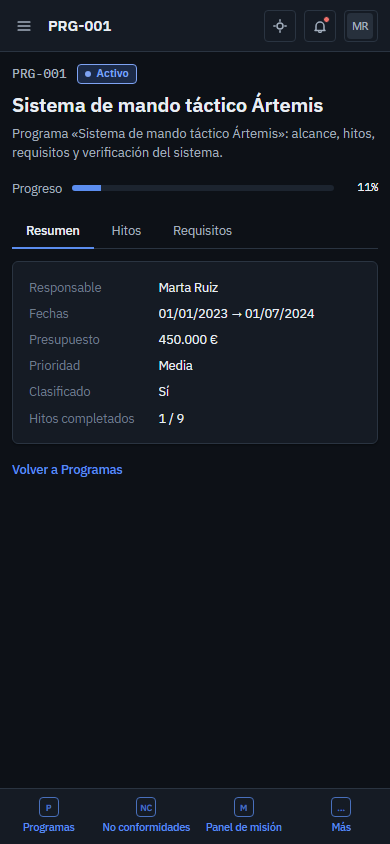
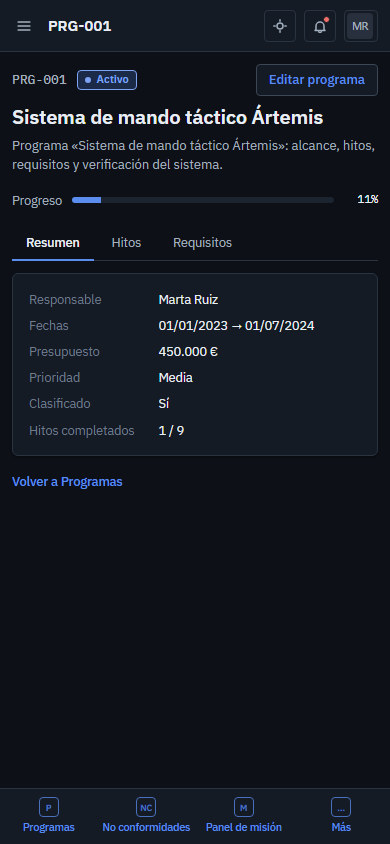
docs(status): close phase 2
STATUS summary and completed locator coverage, README module table and second
e2e stack, Render runbook section for the phase 2 upgrade, changelog, and
refreshed program detail screenshots.

Claude-Session: https://claude.ai/code/session_014pniVbJs2wuLvcRwVyarcA

Changed region(s): [[0.0308, 0.0616, 0.9538, 0.5853], [0.6154, 0.3697, 0.8308, 0.4005], [0.9231, 0.2156, 0.9846, 0.2464]]

diff --git a/docs/STATUS.md b/docs/STATUS.md
@@ -1,6 +1,6 @@
 # SIGPRO — Estado de la construcción
 
-Última actualización: 2026-11-06 · **Fase 1 (Base) cerrada** · **Fase 2 (Núcleo del dominio) en curso**
+Última actualización: 2026-11-06 · **Fase 1 (Base) cerrada** · **Fase 2 (Núcleo del dominio) cerrada** · La fase 3 no se ha empezado
 
 Leyenda: `[x]` hecho · `[~]` en curso · `[ ]` pendiente
 
@@ -14,11 +14,19 @@ Cada tarea termina con `pnpm lint && pnpm typecheck && pnpm test` en verde y un 
 - [x] **T18** Módulo **Verificación**: casos de prueba, ejecución (radio), evidencias (simple, múltiple, arrastrar), informe PDF
 - [x] **T19** Módulo **Documentos**: clasificación por rol, visor en `<iframe>`, nueva pestaña, comparación de versiones
 - [x] **T20** Módulo **Auditoría** (AuditLog): feed con scroll infinito y filtros
-- [ ] **T21** Cierre de fase 2: README, CHANGELOG, STATUS final, pasada completa (lint, typecheck, unit, e2e, capturas)
+- [x] **T21** Cierre de fase 2: README, CHANGELOG, STATUS final, pasada completa (lint, typecheck, unit, e2e, capturas)
 
-## Cobertura de locators — fase 2 (se completa módulo a módulo)
+## Resumen de la fase 2
 
-Recorrida contra la tabla del plan. Estado: **✓** cubierta · **T18 / T19 / T20** llega con ese módulo · **fase 3** fuera de alcance. Specs en `e2e/tests/`: `req` = requirements.spec.ts, `req-api` = requirements-api.spec.ts, `ver` = verification.spec.ts, `ver-api` = verification-api.spec.ts, `doc` = documents.spec.ts, `doc-api` = documents-api.spec.ts, `aud` = audit.spec.ts, `aud-api` = audit-api.spec.ts, `edit` = programs-edit.spec.ts, `legal` = legal.spec.ts, `docs-auth` = api-docs.spec.ts.
+- **Datos y API:** migración `phase2` (etiquetas y posición de requisitos, `Evidence`, `DocumentVersion`), seed v2 (árbol de requisitos de 3 niveles, matriz por programa, 13 capturas PNG reales, 1–3 versiones por documento, 130 eventos de auditoría) con **re-siembra al arrancar** de los tenants antiguos; `PATCH /programs/:code`; Requisitos (estados con permisos, mover, enlaces, cascada), Verificación (lista, ejecución multipart con validación por firma real, evidencias, informe PDF), Documentos (403 en restringidos, contenido paginado, diff por líneas, publicar versión, PDF) y Auditoría (cursor). Cada mutación escribe su evento.
+- **Web:** Requisitos, Verificación, Documentos y Auditoría; edición de programa; páginas públicas `/legal/terms`, `/legal/privacy` y `/help`; visor HTML en `<iframe>`; componentes nuevos reutilizables (`ActionMenu`, `ConfirmDialog`, `RichTextEditor`, `TagPicker`, `ToneBadge`).
+- **Calidad:** `pnpm lint` en verde en los 5 paquetes; `tsc --noEmit` limpio en los 4; **221 tests unitarios** (92 shared, 89 api, 40 web) y **161 specs e2e de humo** en `chromium` (70 de la fase 1 + 91 de la fase 2: Requisitos 13 + 9 de API, Verificación 12 + 8, Documentos 9 + 7, Auditoría 7 + 7, edición de programa 8, legales 5 y basic auth 6). También pasan 46 de ellos contra el build de producción servido con `vite preview`, y `pnpm --filter web build` compila. 250 capturas claro/oscuro a 1440 y 390 px en `docs/screens/` (162 nuevas).
+- **Testabilidad:** auditoría automática sobre el AST de `apps/web/src`: 0 elementos interactivos sin `data-testid` y 0 `<img>` sin `alt`.
+- **Tenants de los specs:** `alumno08` (edición de programa), `09`–`11` (Requisitos), `12`–`17` (Verificación), `18`–`21` (Documentos), `22`–`23` y `25` (Auditoría) y `13`–`14` (capturas de edición/legal y de Requisitos). Detalle en `docs/DECISIONS.md`.
+
+## Cobertura de locators — fase 2 (cerrada)
+
+Recorrida contra la tabla del plan. Estado: **✓** cubierta · **fase 3** fuera de alcance. Specs en `e2e/tests/`: `req` = requirements.spec.ts, `req-api` = requirements-api.spec.ts, `ver` = verification.spec.ts, `ver-api` = verification-api.spec.ts, `doc` = documents.spec.ts, `doc-api` = documents-api.spec.ts, `aud` = audit.spec.ts, `aud-api` = audit-api.spec.ts, `edit` = programs-edit.spec.ts, `legal` = legal.spec.ts, `docs-auth` = api-docs.spec.ts.
 
 | Locator del plan | Elemento nuevo en la fase 2 | Spec | Estado |
 | --- | --- | --- | --- |
@@ -101,15 +109,18 @@ Recorrida fila a fila para Acceso y Programas. Specs en `e2e/tests/`: `access` =
 | `and()` / `or()` | Botón exportar + testid; `toast-info` o alerta tras exportar; toast ok o error 422 | programs, crud |
 | Lista con `toHaveText([...])` | Columna Código tras ordenar (`programs-link-*`) | programs |
 | `dialog` nativo vs custom | Borrado = `alertdialog` propio; reset del tenant = `confirm()` nativo (`page.on('dialog')`) | crud, lab |
-| `frameLocator`, Shadow DOM, nueva pestaña, kanban sin asignado | Visor de documentos, `<sigpro-severity-picker>`, enlace `target=_blank`, NC | **fase 2/3** |
+| `frameLocator`, nueva pestaña | Visor de documentos y enlace `target=_blank` | **fase 2 ✓** (ver la tabla «fase 2» más arriba) |
+| Shadow DOM, kanban sin asignado | `<sigpro-severity-picker>` y tarjetas de NC | **fase 3** |
 
 ## Pendiente / deuda conocida
 
 - **Render:** desplegado (web <https://sigpro-web.onrender.com/>, API <https://sigpro-api.onrender.com/>); CI en verde. Al desplegar la fase 2, la API re-siembra al arrancar los tenants con `seed_version` antigua (ver `docs/DECISIONS.md`).
 - **CI en GitHub:** la primera ejecución de `ci.yml` (2026-11-06, repositorio `gsanchezm/sigpro`) terminó en verde: lint, typecheck, unit y e2e de humo.
-- **Node 22 en CI/Render** en vez de Node 20: `pnpm@11` exige ≥ 22.13 (ver `docs/DECISIONS.md`).
+- **Node 22** (resuelto): CI, Render y `CLAUDE.md` usan Node 22 y pnpm 11 (`pnpm@11` exige ≥ 22.13; ver `docs/DECISIONS.md`).
 - **Deshacer eliminación** (`toast-action`): no se implementa (borrado permanente).
-- **Detalle de programa:** solo la pestaña Resumen; Hitos y Requisitos son marcadores.
+- **Detalle de programa:** Resumen y Requisitos (enlace al módulo) están hechos; la pestaña **Hitos** sigue siendo un marcador. La tabla de hitos con edición inline y el slider de avance del catálogo del plan no entraban en la fase 2.
+- **Windows + Prisma:** `pnpm typecheck` y `pnpm build` ejecutan `prisma generate`, que falla con `EPERM … query_engine-windows.dll.node` si otra API tiene el motor cargado. Detén antes las APIs locales (el resto de comprobaciones no se ve afectado).
+- **Evidencias en PostgreSQL:** hasta 5 archivos de 2 MB por ejecución; el reset nocturno las elimina con el resto del tenant (ver `docs/DEPLOY-RENDER.md`).
 - **Perfil**: el enlace del menú de usuario sigue sin destino (las páginas legales y la ayuda ya existen: `/legal/terms`, `/legal/privacy`, `/help`).
 - **Textos variables del caos** (`flakyLabels`): se guardan y exponen, pero la web aún no alterna etiquetas (fase 3).
 - **Bugs plantados** (`docs/planted-bugs.md`): fase 3.

diff --git a/README.md b/README.md
@@ -16,6 +16,20 @@ Laboratorio de pruebas para el curso **Playwright + TypeScript**: un gestor fict
 | `e2e` | Playwright: specs de humo, capturas y comparación visual con el handoff |
 | `apps/mobile` | Expo (fase 4, aún no creado) |
 
+## Módulos
+
+| Ruta | Módulo | Qué practica |
+| --- | --- | --- |
+| `/login`, `/register`, `/forgot` | Acceso | `storageState`, MFA, bloqueo, formularios con 422 |
+| `/programs`, `/programs/:code`, `/programs/:code/edit` | Programas | Tablas, filtros, paginación, asistente de 3 pasos, edición con «Guardar» / «Guardar y cerrar» |
+| `/programs/:code/requirements` | Requisitos | Árbol `role="tree"`, estados por rol con confirmación, edición en línea, etiquetas con chips, editor `contenteditable`, drag & drop para reordenar, clic derecho, atajos, portapapeles, matriz, CSV |
+| `/verification`, `/verification/:code` | Verificación | Casos de prueba, ejecución con radio, subida simple / múltiple / zona de arrastre, `getByAltText`, informe PDF |
+| `/documents`, `/documents/:id`, `/documents/:id/view` | Documentos | Clasificación por rol (403), `<iframe>` con `frameLocator`, `target="_blank"`, comparación de versiones, descargas |
+| `/audit` | Auditoría | Feed con scroll infinito (`role="feed"`, cursor), filtros por fecha, entidad y texto |
+| `/lab`, `/legal/terms`, `/legal/privacy`, `/help` | Laboratorio y páginas públicas | Credenciales, reset, caos, contraejemplos de locators, pestañas nuevas |
+
+Pendiente: Panel de misión, No conformidades y Administración (fase 3) y la app móvil (fase 4).
+
 ## Arranque local
 
 Requisitos: Node ≥ 22.13 (lo pide `pnpm@11`), pnpm 11 (`corepack enable`) y Docker.
@@ -57,6 +71,18 @@ Usuarios demo (existen en cada tenant; `?tenant=alumno01` o el selector de `/lab
 
 La primera vez: `pnpm --filter @sigpro/e2e install:browsers`.
 
+**Segunda pila para los specs.** Si ya tienes la API en :3000 y la web en :5173 (o prefieres no pisarlas), arranca otra y apunta Playwright a ella:
+
+```bash
+PORT=3001 CORS_ORIGIN=http://localhost:5174 pnpm --filter api dev        # API en :3001
+WEB_PORT=5174 API_PROXY_TARGET=http://localhost:3001 pnpm --filter web dev # web en :5174
+E2E_API_URL=http://localhost:3001/api E2E_WEB_URL=http://localhost:5174 pnpm e2e
+```
+
+El spec de basic auth (`api-docs.spec.ts`) usa una segunda API con `DOCS_BASIC_AUTH=curso:docs-2026` que Playwright arranca solo en el puerto 3100 (`E2E_DOCS_URL` y `E2E_DOCS_AUTH` lo cambian).
+
+> En Windows, `prisma generate` no puede reemplazar el motor de consultas mientras otra API lo tenga cargado (`EPERM … query_engine-windows.dll.node`): para `pnpm typecheck` y `pnpm build` detén antes las APIs en marcha.
+
 ## Despliegue
 
-`render.yaml` declara la API (Web Service), la web (Static Site), PostgreSQL y el Cron Job de reset nocturno. `JWT_SECRET`, `ADMIN_KEY` y `DOCS_BASIC_AUTH` se piden al crear el Blueprint. El workflow [`ci.yml`](.github/workflows/ci.yml) ejecuta lint, typecheck, tests unitarios, build y los specs e2e de humo con un PostgreSQL de servicio.
+`render.yaml` declara la API (Web Service), la web (Static Site), PostgreSQL y el Cron Job de reset nocturno. `JWT_SECRET`, `ADMIN_KEY` y `DOCS_BASIC_AUTH` se piden al crear el Blueprint. Al desplegar la fase 2, la API aplica la migración `phase2` y vuelve a sembrar los tenants con `seed_version` antigua (ver [`docs/DEPLOY-RENDER.md`](docs/DEPLOY-RENDER.md#actualizar-a-la-fase-2)). El workflow [`ci.yml`](.github/workflows/ci.yml) ejecuta lint, typecheck, tests unitarios, build y los specs e2e de humo con un PostgreSQL de servicio.

diff --git a/docs/CHANGELOG.md b/docs/CHANGELOG.md
@@ -16,3 +16,4 @@ Una línea por módulo cerrado.
 - **Verificación** (`/verification`, `/verification/:code`): casos de prueba con filtros (búsqueda con debounce, programa, último resultado), orden con `aria-sort`, paginación de 10, selección múltiple e informe PDF (todos, programa o selección); detalle con pasos, requisitos enlazados e historial; ejecución con radio y evidencias (upload simple, múltiple y zona de arrastre, validadas en cliente y servidor) y miniaturas `<img alt>`; 12 specs de UI y 8 de API (`verification*.spec.ts`); capturas `verificacion-*`.
 - **Documentos** (`/documents`, `/documents/:id`, `/documents/:id/view`): clasificación `public` / `restricted` por rol (los restringidos no se ven con el rol consultor: se omiten en la lista y dan 403 en ficha, visor y descarga), visor HTML en `<iframe title="Visor de documento">`, enlace `target="_blank"`, descarga de PDF por versión, historial, comparación de versiones por líneas (`<ins>` / `<del>`, `data-diff`) y publicación de versiones; 9 specs de UI y 7 de API (`documents*.spec.ts`); capturas `documentos-*`.
 - **Auditoría** (`/audit`, solo admin y auditor): feed con scroll infinito (`role="feed"` de altura fija, centinela con `IntersectionObserver` y paginación por cursor), filtros por entidad, rango de fechas y texto, estados de carga, vacío y error con «Cargar más» como respaldo; y todas las mutaciones de la fase 2 (edición de programa, requisitos, ejecuciones y versiones de documentos) escriben su evento; 7 specs de UI y 7 de API (`audit*.spec.ts`); capturas `auditoria-*`.
+- **Cierre de la fase 2:** README con la tabla de módulos y la segunda pila para los specs (`WEB_PORT`, `E2E_API_URL`, `E2E_WEB_URL`), sección «Actualizar a la fase 2» en `docs/DEPLOY-RENDER.md` y STATUS con el resumen y la cobertura de locators completa (161 specs e2e, 221 tests unitarios, 250 capturas).

diff --git a/docs/DEPLOY-RENDER.md b/docs/DEPLOY-RENDER.md
@@ -164,6 +164,15 @@ Entrega a los alumnos: la URL de la web, `?tenant=alumnoNN` para cambiar de tena
 
 El seed es determinista, así que los datos de un tenant son siempre reproducibles: la base se puede considerar desechable.
 
+## Actualizar a la fase 2
+
+La fase 2 añade tablas y columnas (etiquetas y posición de requisitos, evidencias, versiones de documentos) con valores por defecto, así que la migración `phase2` se aplica sola con el `prisma migrate deploy` del comando de arranque de la API.
+
+- **Re-siembra al arrancar:** los tenants con `seed_version` anterior a 2 se vuelven a sembrar (conservando su configuración de caos). Con 26 tenants son unos 5–10 s; los datos que los alumnos hubieran creado en la fase 1 se pierden, que es lo mismo que haría el reset nocturno.
+- **Evidencias en la base:** los archivos (PNG, JPEG o PDF, ≤ 2 MB, hasta 5 por ejecución) se guardan en PostgreSQL; el disco de Render es efímero. El reset nocturno las borra con el resto de datos del tenant.
+- **`DOCS_BASIC_AUTH`** protege ahora también `/api/docs-json`. El spec `api-docs.spec.ts` lee las credenciales de `E2E_DOCS_AUTH` (`usuario:contraseña`); para probar Render, ponlo al valor que hayas definido allí. El valor por defecto del spec (`curso:docs-2026`) es solo para la API local de pruebas: no lo uses en producción.
+- **Comprobación rápida:** `https://<api>.onrender.com/api/health` y, con sesión de admin, `GET /api/audit` debe devolver 130 eventos en un tenant recién sembrado.
+
 ## 9. Rollback
 
 - **Código:** servicio → **Events** (o **Deploys**) → elige un despliegue anterior correcto → **Rollback**. Aplica a la API y a la web.
